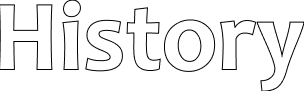
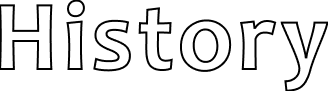
History fix

Changed region(s): [[0.0, 0.0, 1.0, 1.0]]

diff --git a/src/pages/Endeavour/CommunityConversations/CommunityConversations.jsx b/src/pages/Endeavour/CommunityConversations/CommunityConversations.jsx
@@ -41,7 +41,7 @@ const CommunityConversations = (dark) => {
 
         <div className="img_section">
           <img
-            src="https://res.cloudinary.com/dfgz4hsg0/image/upload/v1651224469/Website%20Content/Endevaour/History_tnn5gi.png"
+            src="https://res.cloudinary.com/dfgz4hsg0/image/upload/v1651226514/Website%20Content/Endevaour/History_e4aoa4.png"
             alt="joker"
           />
         </div>
